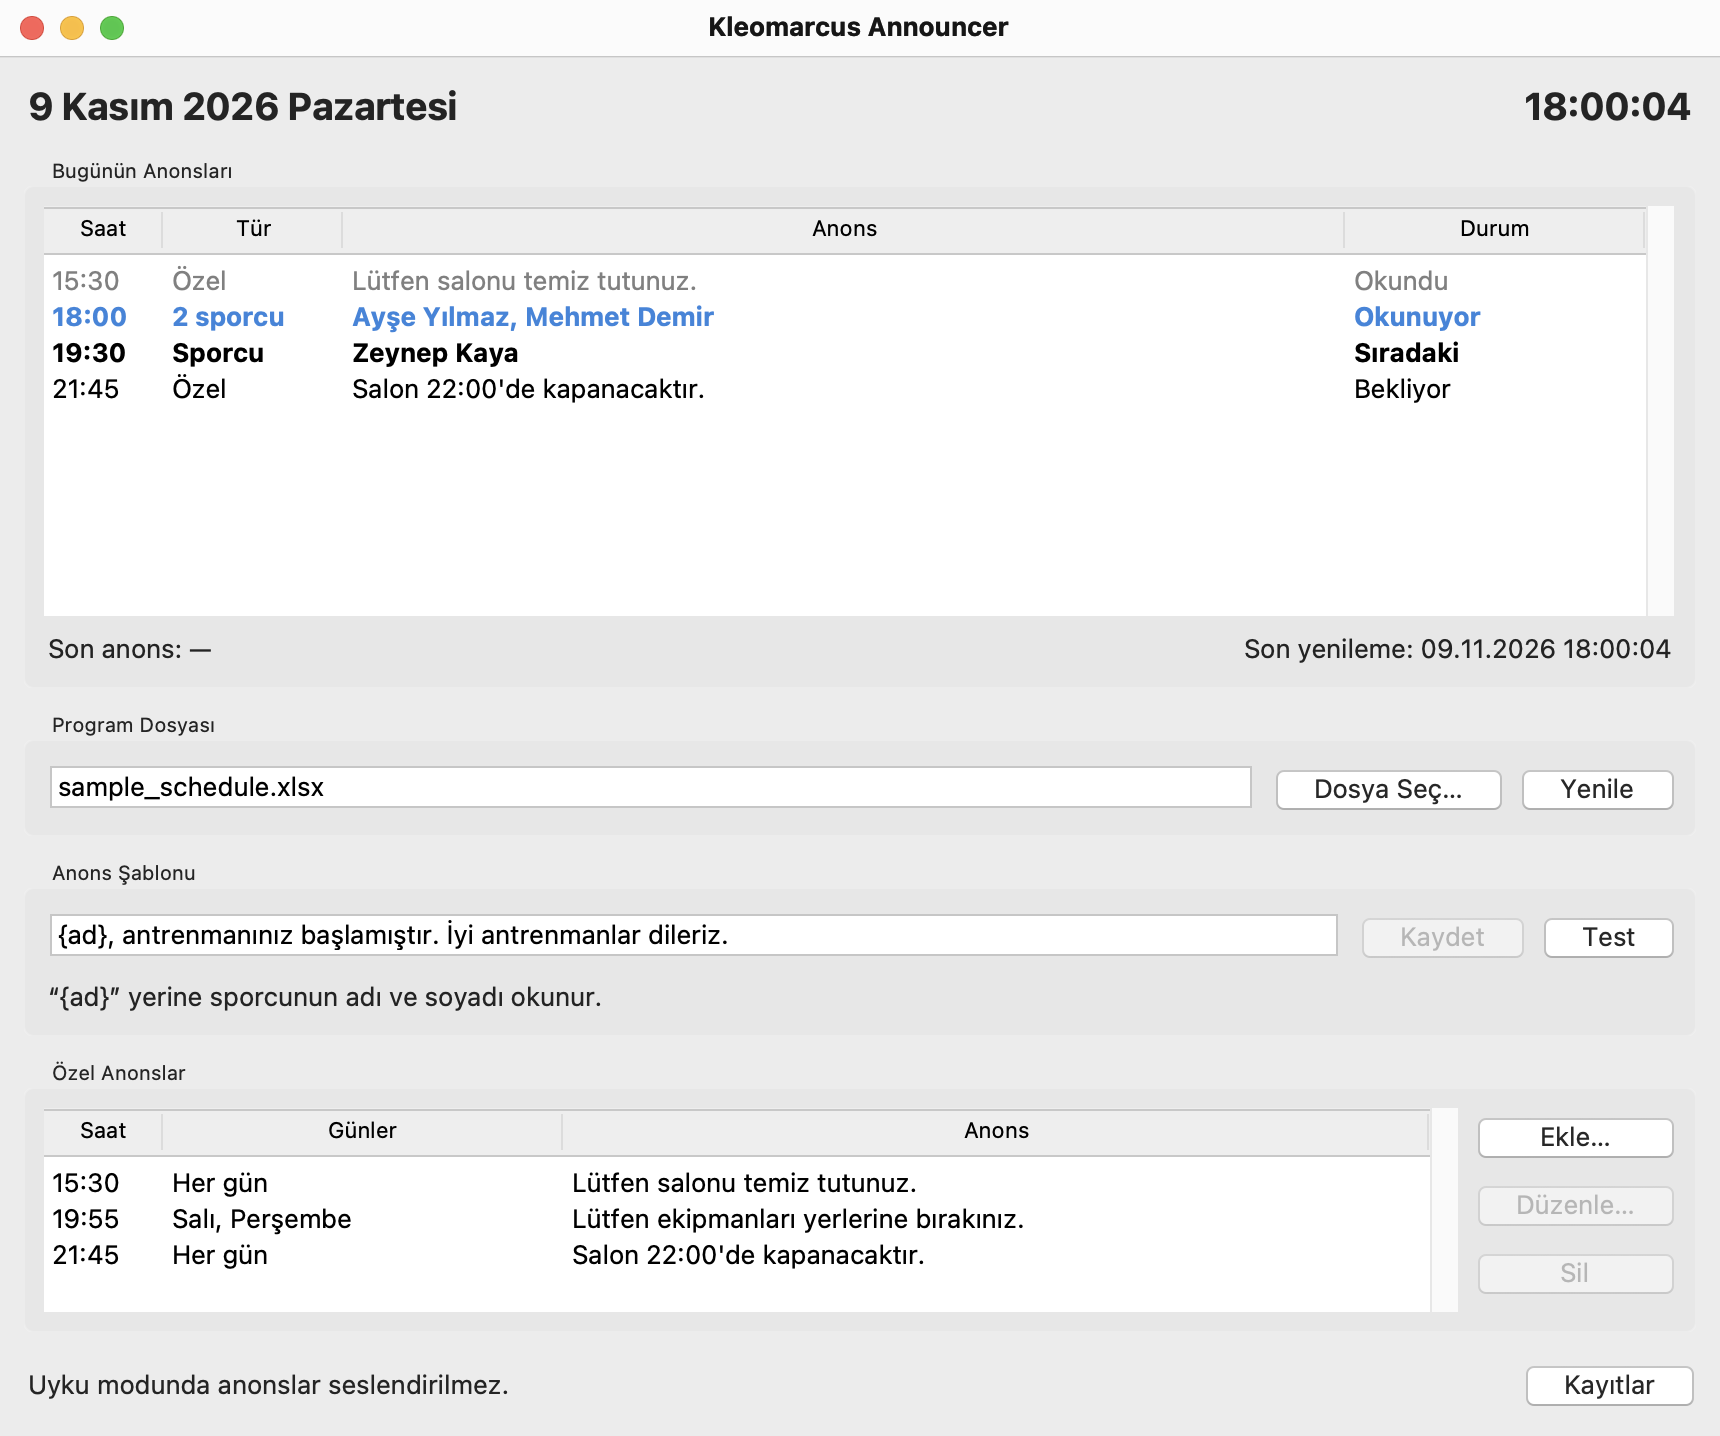
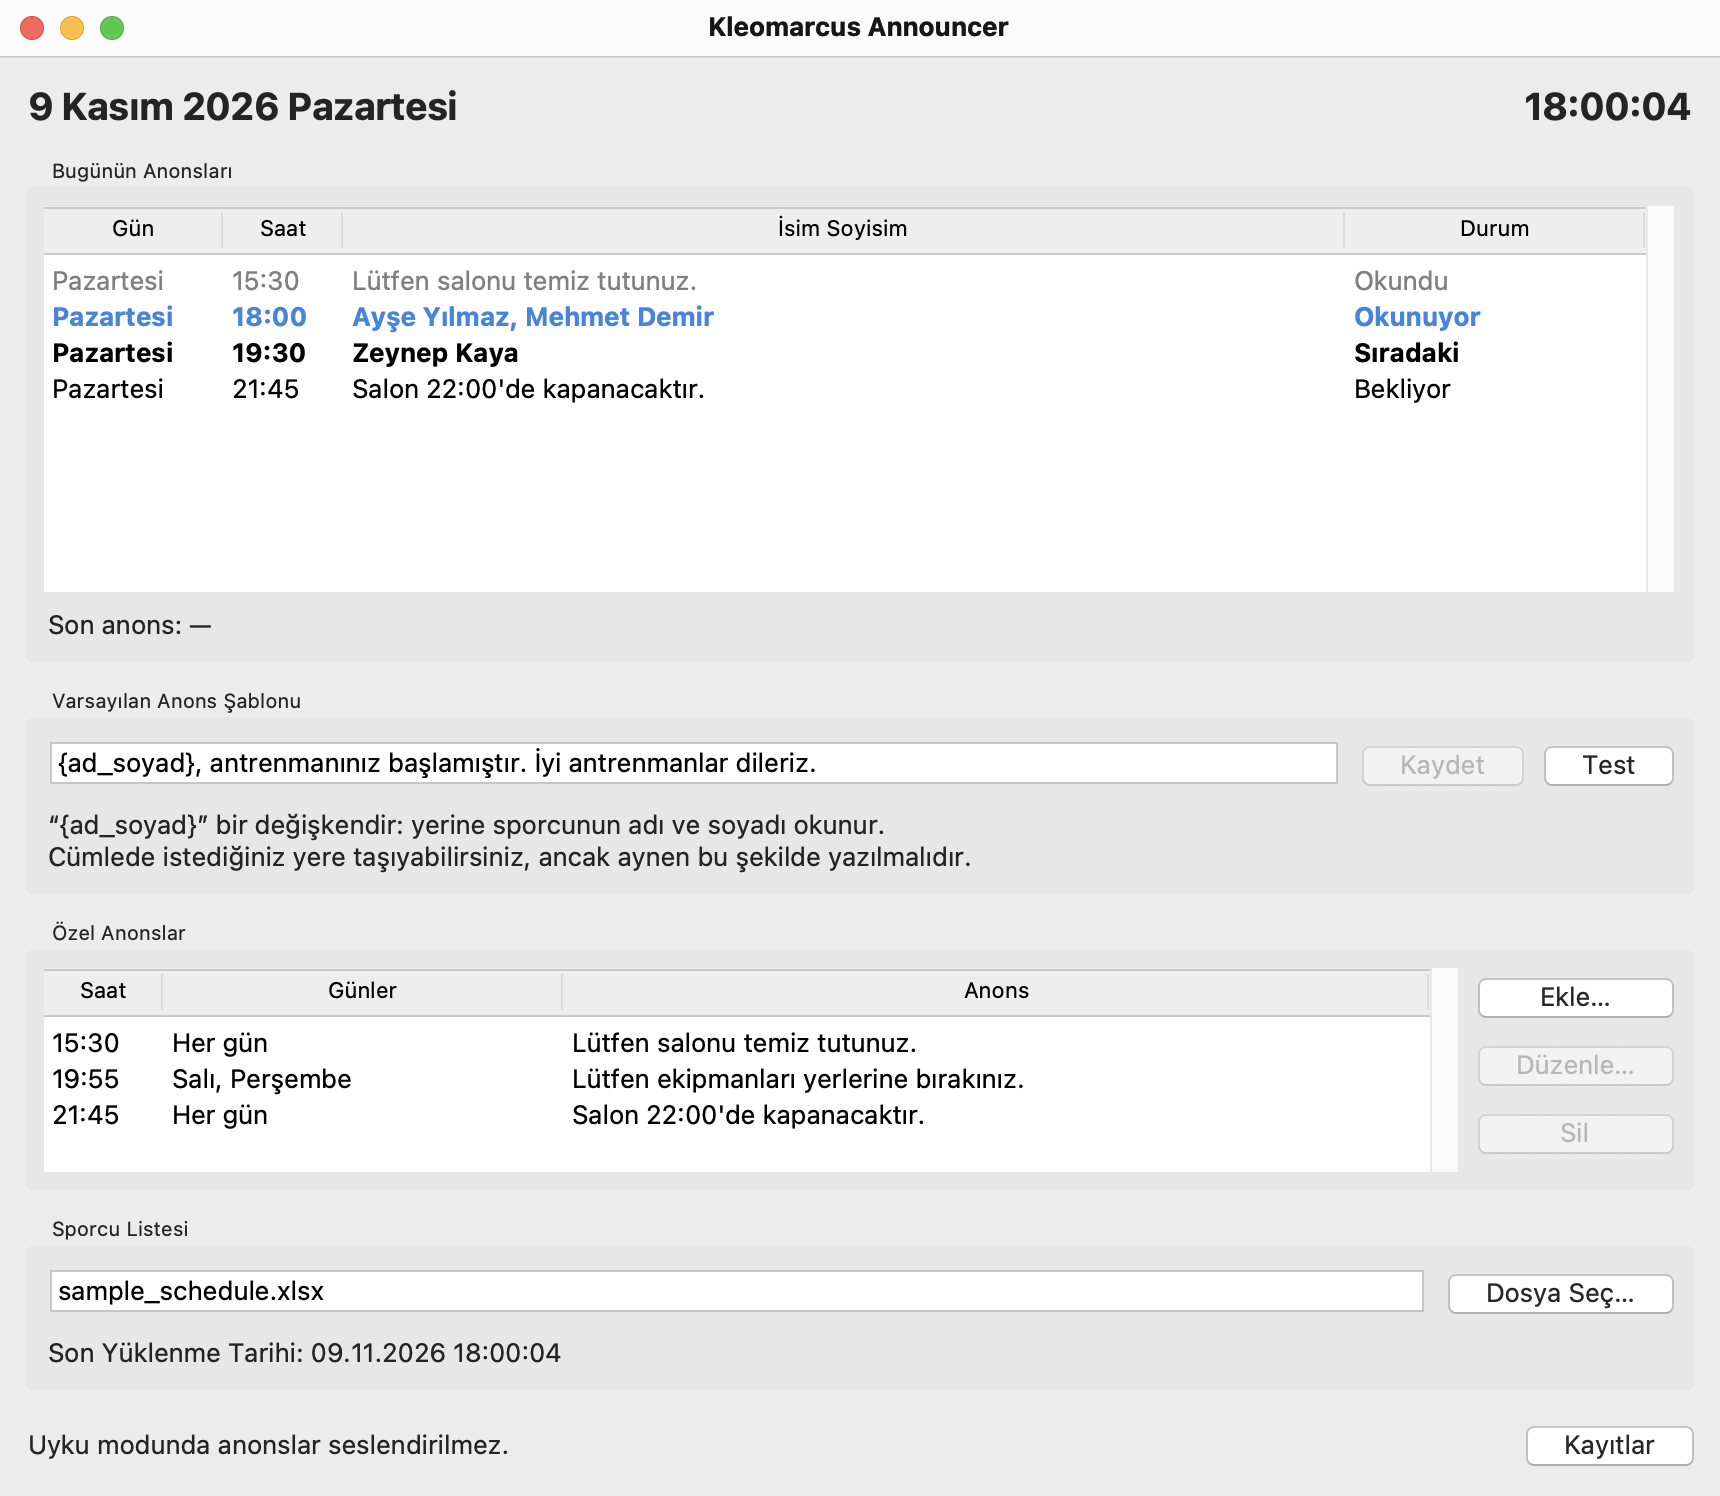
docs: show the reworked window and the new placeholder in the README

diff --git a/README.md b/README.md
@@ -58,8 +58,8 @@ uv run kleomarcus-announcer
 
 ## Schedule file
 
-The schedule is an `.xlsx` workbook. The first visible worksheet needs a
-header row with these columns, in any order:
+The schedule is an Excel workbook; only `.xlsx` files are accepted. The first
+visible worksheet needs a header row with these columns, in any order:
 
 | Column     | Content                                    | Example       |
 | ---------- | ------------------------------------------ | ------------- |
@@ -83,8 +83,9 @@ fictional names.
 ## How it behaves
 
 - **Announcement text.** Athletes are announced with a template, by default
-  `{ad}, antrenmanınız başlamıştır. İyi antrenmanlar dileriz.`, where `{ad}`
-  stands for the name. A new template is used once all of its speech exists.
+  `{ad_soyad}, antrenmanınız başlamıştır. İyi antrenmanlar dileriz.`, where
+  `{ad_soyad}` stands for the name and may be moved anywhere in the sentence.
+  A new template is used once all of its speech exists.
 - **Timing.** A session is announced within the first 30 seconds of its
   minute, by an app that was already running when the minute began. The app
   does not keep the computer awake: an announcement that falls into a sleep
